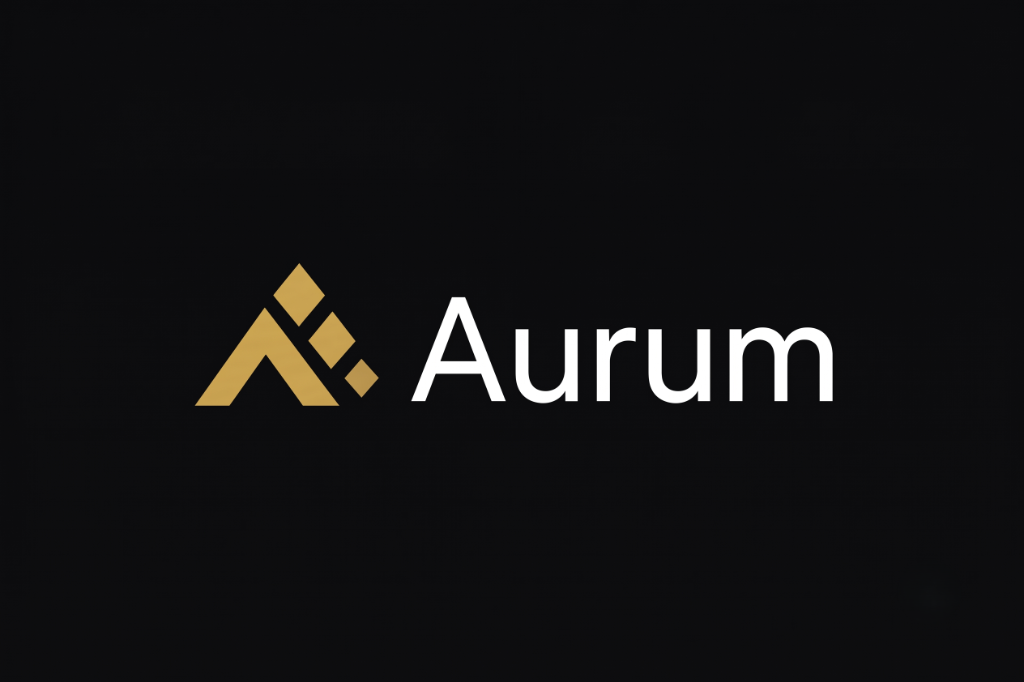
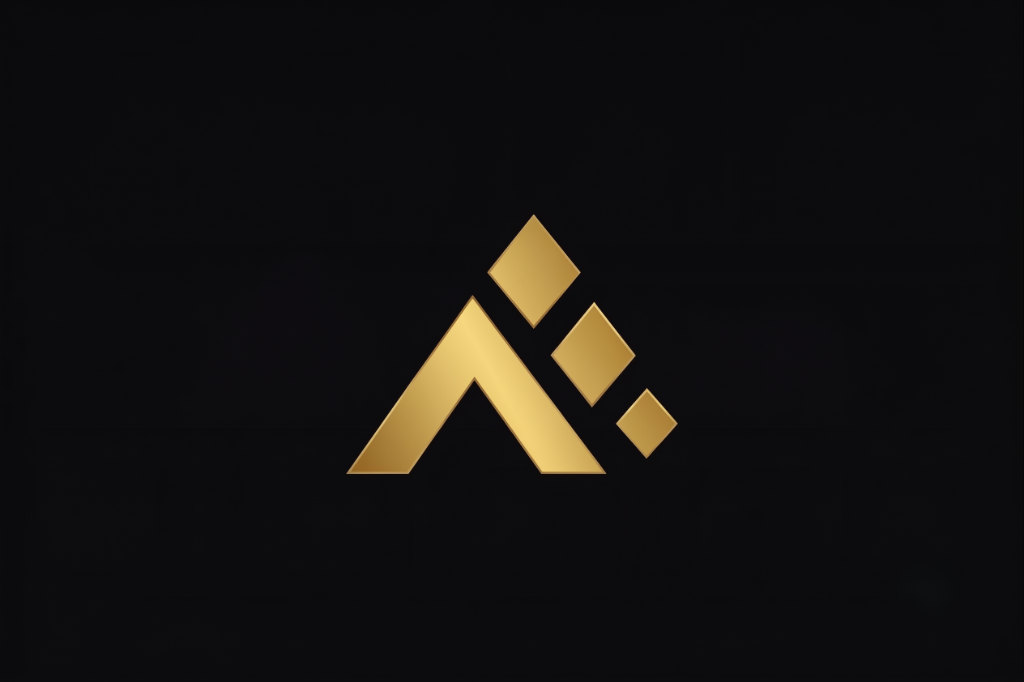
Add files via upload

Changed region(s): [[0.1875, 0.3079, 0.8125, 0.7082]]

diff --git a/src/app/layout.tsx b/src/app/layout.tsx
@@ -11,6 +11,9 @@ const inter = Inter({
 export const metadata: Metadata = {
   title: "Aurum - Finanzas Personales",
   description: "Plataforma premium de gestión financiera personal",
+  icons: {
+    icon: '/icon.png',
+  }
 };
 
 export default function RootLayout({
